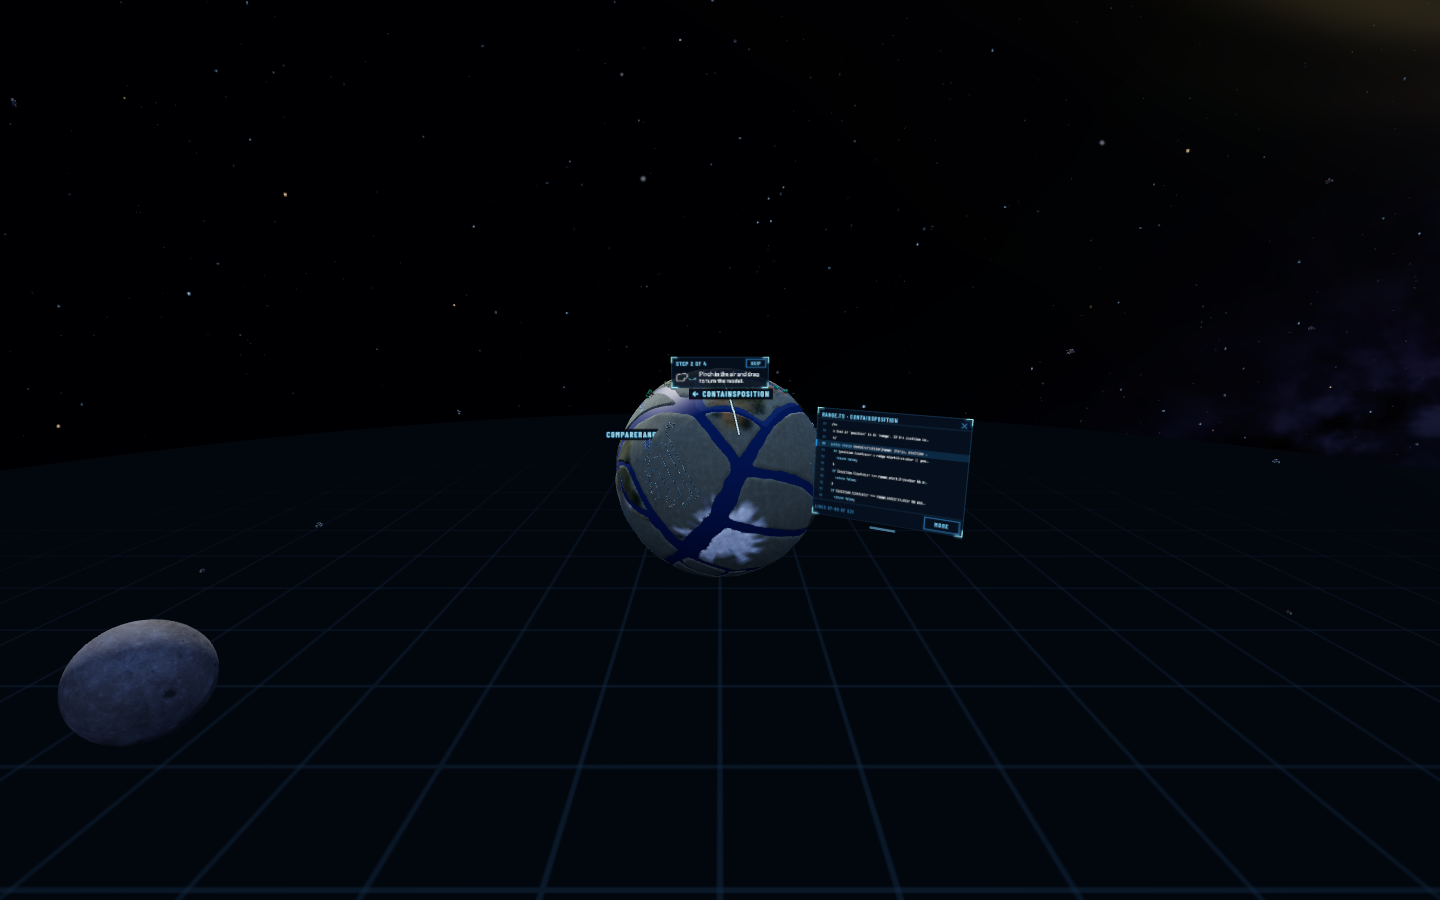
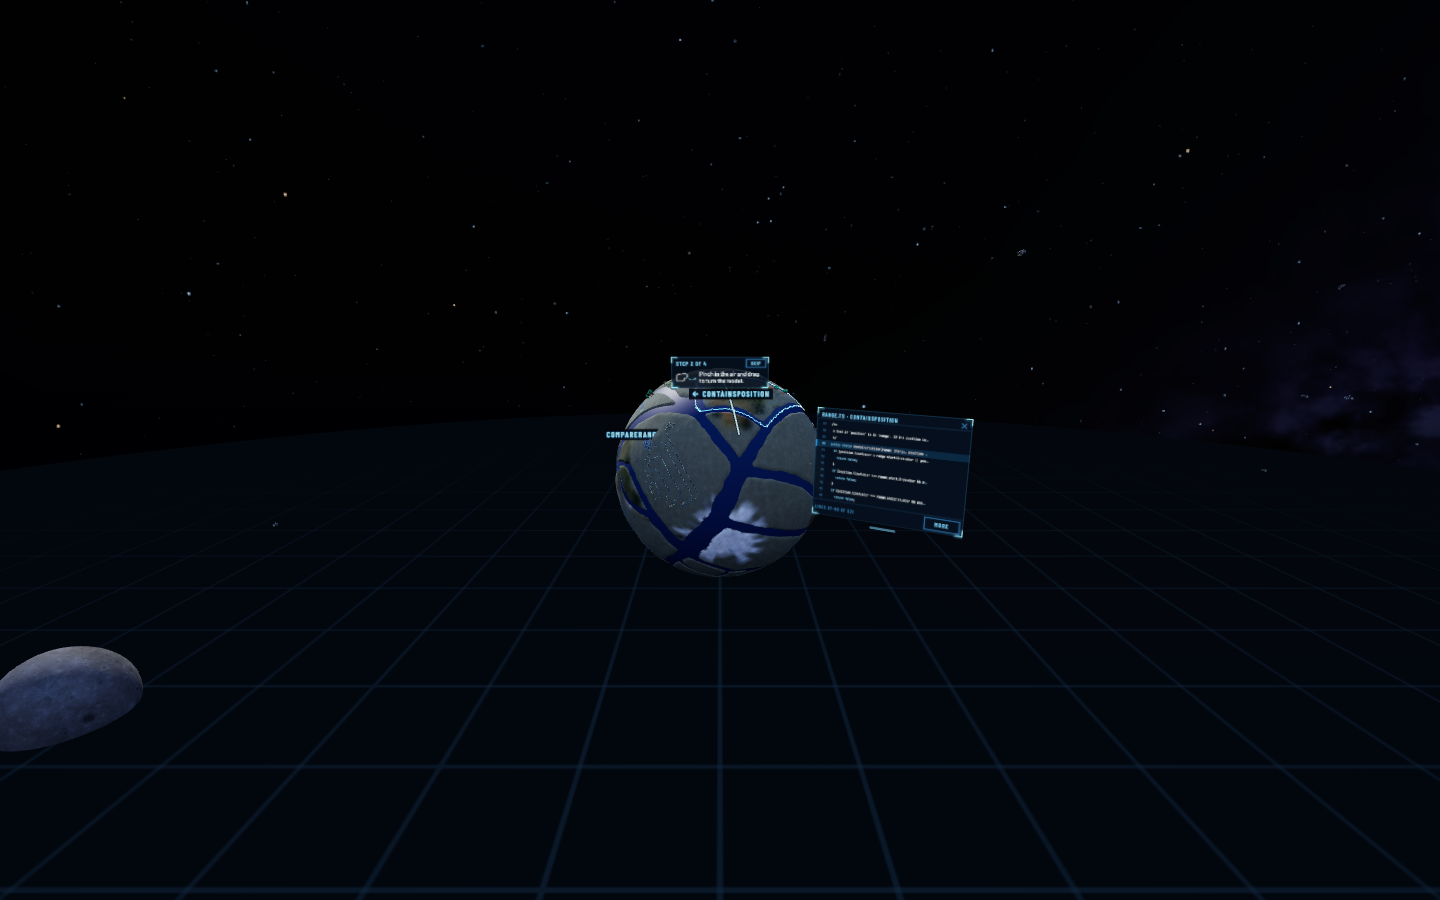
Link towns and code in both directions
- A pinch on the landed globe's surface reaches the copied picking code through the hit volume: the town under
  the ray is selected (ownerOfDir) and the code card opens on its function; a pinch on a building still selects
  its statement.
- The selected town is outlined in `line`: the bridge finds the copied code's pin fill and adds its border.
- A press on a line selects the smallest statement holding it (the copied highlight shows) and, for another
  function, the globe turns its town toward the user (the copied camera flight; the pose follows).
- showCode lands, selects the function and opens the card with the line banded.
- Road cars are hidden from the bridge while landed (968,552 triangles in one measured session).

Changed region(s): [[0.0, 0.6844, 0.1562, 0.84], [0.875, 0.0, 1.0, 0.0622]]

diff --git a/src/systems/galaxy-system.ts b/src/systems/galaxy-system.ts
@@ -1,7 +1,7 @@
 // Runs the copied galaxy inside IWSDK: opens a dataset through the bridge, attaches the galaxy's scene to the world,
 // steps the scene kit every frame and poses the model in the air from the kit's virtual camera.
 import { Quaternion, Vector3, createSystem } from '@iwsdk/core';
-import type { Entity } from '@iwsdk/core';
+import type { Entity, Object3D } from '@iwsdk/core';
 import { GalaxyRoot } from '../components/galaxy-root.ts';
 import { focusedPose, tablePose } from '../core/table-frame.ts';
 import type { TableAnchor, Vec3 } from '../core/table-frame.ts';
@@ -12,9 +12,10 @@ import type { OverlayLayer } from '../galaxy-bridge/overlay-layer.ts';
 import { bridgePointer } from '../galaxy-bridge/pointer-bridge.ts';
 import { createPointScaler } from '../galaxy-bridge/point-sizes.ts';
 import { fileIndex, galaxyState, installActions, openGalaxy } from '../galaxy-bridge/galaxy-session.js';
+import { outlinePinnedTown } from '../galaxy-bridge/town-outline.ts';
 import { createXrHost } from '../galaxy-bridge/xr-host.ts';
 import type { XrHost } from '../galaxy-bridge/xr-host.ts';
-import { error, landedPath, loading, phase, selectedPath } from '../state/app-state.ts';
+import { codeView, error, landedPath, loading, phase, selectedPath } from '../state/app-state.ts';
 import { connectCommands, openDataset } from '../state/commands.ts';
 import { headObject } from './head.ts';
 import { createRoom } from './room.ts';
@@ -35,6 +36,8 @@ export const LANDED_GLOBE_DIAMETER = 0.64;
 // Where a landed globe's centre floats: a little below a seated eye.
 export const LANDED_CENTER: Vec3 = [0, 1.1, -0.95];
 const ANCHOR_EASE_SECONDS = 0.6;
+/** How often, while landed, to look for newly built road cars to hide. */
+const CAR_SWEEP_SECONDS = 0.5;
 /** The project the app opens on. */
 export const DEMO_DATASET = 'editor-core';
 
@@ -50,6 +53,13 @@ export class GalaxySystem extends createSystem({ roots: { required: [GalaxyRoot]
   private head!: Vector3;
   private gaze!: Vector3;
   private headTurn!: Quaternion;
+  /** Frames to keep looking for the copied code's pin fill after the selected town changes (it is built a moment later). */
+  private outlineFrames = 0;
+  private carSweep = 0;
+  // Road cars on a 0.64 m globe are 2-5 mm long and cost about 920,000 triangles: hidden from the bridge.
+  private readonly hideCar = (o: Object3D) => {
+    if (o.visible && o.name.startsWith('road-car:')) o.visible = false;
+  };
 
   init() {
     this.head = new Vector3();
@@ -65,7 +75,14 @@ export class GalaxySystem extends createSystem({ roots: { required: [GalaxyRoot]
       overlays: this.overlays,
     });
     installActions(this.host, { selected: path => (selectedPath.value = path) });
+    let lastRegion: number | null = null;
     this.cleanupFuncs.push(
+      codeView.subscribe(view => {
+        const region = view?.selectedRegion ?? null;
+        if (region === lastRegion) return;
+        lastRegion = region;
+        this.outlineFrames = 30;
+      }),
       connectCommands({
         openDataset: name => void this.open(name),
         selectFile: path => {
@@ -184,5 +201,16 @@ export class GalaxySystem extends createSystem({ roots: { required: [GalaxyRoot]
     head.getWorldPosition(this.head);
     this.gaze.set(0, 0, -1).applyQuaternion(head.getWorldQuaternion(this.headTurn));
     this.labels.update(this.head, this.gaze, pose);
+    if (this.outlineFrames > 0) {
+      this.outlineFrames--;
+      if (outlinePinnedTown(group) > 0) this.outlineFrames = 0;
+    }
+    if (this.landed) {
+      this.carSweep += delta;
+      if (this.carSweep >= CAR_SWEEP_SECONDS) {
+        this.carSweep = 0;
+        group.traverse(this.hideCar);
+      }
+    }
   }
 }

diff --git a/src/galaxy-bridge/town-outline.ts b/src/galaxy-bridge/town-outline.ts
@@ -1,0 +1,54 @@
+// The selected town's outline, in `line`. The copied planet code marks the pinned region (a town, i.e. a function)
+// with a faint additive fill mesh it adds straight to the scene (planet-scene.js `overlay(k, pinMat)`). This finds that
+// mesh after each selection change and adds, as its child, a line along the edges of its triangles that belong to only
+// one triangle: the region's border. The outline goes when the copied code removes the fill. Nothing in galaxy/ changes.
+import { AdditiveBlending, BufferGeometry, Float32BufferAttribute, LineBasicMaterial, LineSegments, Mesh } from '@iwsdk/core';
+import type { Object3D } from '@iwsdk/core';
+import { borderOf } from '../core/mesh-border.ts';
+import { THEME } from '../core/theme.ts';
+
+/** The pin material's colour in the copied code (planet-scene.js). */
+const PIN_COLOR = 0x7cc4ff;
+const OUTLINED = 'orreryOutlined';
+
+const material = new LineBasicMaterial({
+  color: THEME.line,
+  transparent: true,
+  opacity: 0.95,
+  blending: AdditiveBlending,
+  depthWrite: false,
+  toneMapped: false,
+});
+
+function isPinFill(o: Object3D): o is Mesh {
+  if (!(o as Mesh).isMesh) return false;
+  const m = (o as Mesh).material as { color?: { getHex(): number }; blending?: number };
+  return !!m?.color && m.color.getHex() === PIN_COLOR && m.blending === AdditiveBlending;
+}
+
+const found: Mesh[] = [];
+const collect = (o: Object3D) => {
+  if (isPinFill(o) && !o.userData[OUTLINED]) found.push(o);
+};
+
+/** Outlines every pin fill under `root` (the landed planet's own scene sits inside it) that has no outline yet.
+ * Returns how many it outlined. */
+export function outlinePinnedTown(root: Object3D): number {
+  let made = 0;
+  found.length = 0;
+  root.traverse(collect);
+  for (const child of found) {
+    child.userData[OUTLINED] = true;
+    const position = child.geometry.getAttribute('position');
+    if (!position) continue;
+    const geometry = new BufferGeometry();
+    geometry.setAttribute('position', new Float32BufferAttribute(borderOf(position.array as ArrayLike<number>), 3));
+    const line = new LineSegments(geometry, material);
+    line.name = 'town-outline';
+    line.renderOrder = 5;
+    child.add(line);
+    child.addEventListener('removed', () => geometry.dispose());
+    made++;
+  }
+  return made;
+}

diff --git a/src/core/mesh-border.test.ts b/src/core/mesh-border.test.ts
@@ -1,0 +1,38 @@
+import { test } from 'node:test';
+import assert from 'node:assert/strict';
+import { borderOf } from './mesh-border.ts';
+
+const edgesOf = (segments: number[]) => {
+  const out: string[] = [];
+  for (let i = 0; i < segments.length; i += 6) {
+    const a = segments.slice(i, i + 3).join(','),
+      b = segments.slice(i + 3, i + 6).join(',');
+    out.push(a < b ? `${a}|${b}` : `${b}|${a}`);
+  }
+  return out.sort();
+};
+
+test('a single triangle is all border', () => {
+  assert.equal(borderOf([0, 0, 0, 1, 0, 0, 0, 1, 0]).length, 18);
+});
+
+test('the shared edge of two triangles is not border', () => {
+  // A unit square split along its diagonal (0,0)-(1,1).
+  const square = [0, 0, 0, 1, 0, 0, 1, 1, 0, 0, 0, 0, 1, 1, 0, 0, 1, 0];
+  assert.deepEqual(edgesOf(borderOf(square)), [
+    '0,0,0|0,1,0',
+    '0,0,0|1,0,0',
+    '0,1,0|1,1,0',
+    '1,0,0|1,1,0',
+  ]);
+});
+
+test('vertices equal to five decimals count as the same point', () => {
+  const a = [0, 0, 0, 1, 0, 0, 1, 1, 0],
+    b = [0, 0, 0, 1.000001, 1, 0, 0, 1, 0];
+  assert.equal(borderOf([...a, ...b]).length, 4 * 6);
+});
+
+test('nothing in, nothing out', () => {
+  assert.deepEqual(borderOf([]), []);
+});

diff --git a/src/core/mesh-border.ts b/src/core/mesh-border.ts
@@ -1,0 +1,26 @@
+// The border of a region drawn as a triangle soup (three vertices per triangle, no index): the edges used by exactly
+// one triangle. Vertices that agree to five decimals are the same point.
+
+/** Line segments (x1, y1, z1, x2, y2, z2, ...) along the border of a non-indexed triangle list. */
+export function borderOf(positions: ArrayLike<number>): number[] {
+  const key = (i: number) => `${positions[i].toFixed(5)},${positions[i + 1].toFixed(5)},${positions[i + 2].toFixed(5)}`;
+  const edges = new Map<string, { count: number; a: number; b: number }>();
+  for (let t = 0; t + 8 < positions.length; t += 9)
+    for (const [a, b] of [
+      [t, t + 3],
+      [t + 3, t + 6],
+      [t + 6, t],
+    ]) {
+      const ka = key(a),
+        kb = key(b);
+      const k = ka < kb ? `${ka}|${kb}` : `${kb}|${ka}`;
+      const e = edges.get(k);
+      if (e) e.count++;
+      else edges.set(k, { count: 1, a, b });
+    }
+  const out: number[] = [];
+  for (const e of edges.values())
+    if (e.count === 1)
+      out.push(positions[e.a], positions[e.a + 1], positions[e.a + 2], positions[e.b], positions[e.b + 1], positions[e.b + 2]);
+  return out;
+}

diff --git a/docs/migration/m1-notes.md b/docs/migration/m1-notes.md
@@ -90,3 +90,21 @@ The tutorial card sits above the model, so it is in view looking straight ahead,
 | Landed globe with the code page | 171 | 2,916,133 |
 
 The landed counts vary by a few percent between runs with what the copied code has built at that moment.
+
+## Road cars hidden (Task 15, after the design review)
+
+On the 0.64 m globe a road car is 2 to 5 mm long. The bridge hides every object under the model whose name starts with
+`road-car:` while landed (`src/systems/galaxy-system.ts`; nothing in `galaxy/` changes). Measured in one browser-tab
+session, landed on `core/range.ts` with `showCode('core/range.ts', 90)`, by showing the cars again for one frame:
+
+| Landed | Triangles |
+| --- | --- |
+| Cars shown | 3,177,452 |
+| Cars hidden | 2,208,900 |
+| Saved | 968,552 |
+
+The saving is above the 800,000 the change list asks for. The total is not below its 1,630,000 target: this session's
+landed count with cars shown was 3.18 million, not the 2.43 million the change list measured, because more of the
+landed planet's detail had been built. What remains: town buildings and props about 1,140,000, the island's
+landmarks and houses about 530,000, dependency arcs about 220,000, the other planets about 200,000. The island and the
+rest of the budget belong to the next plan's Task 18; hiding the other planets while landed waits for the owner.
